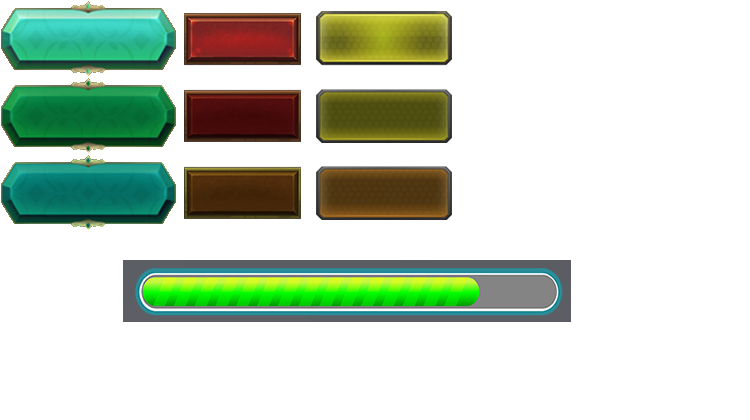
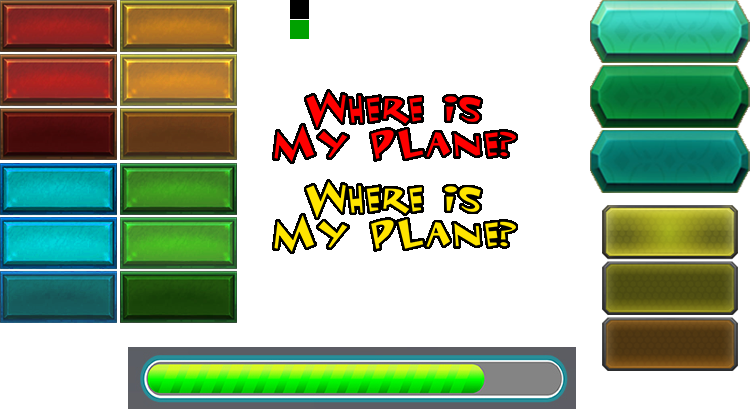
buttons

diff --git a/platformer/Motor2D/j1Map.cpp b/platformer/Motor2D/j1Map.cpp
@@ -584,16 +584,16 @@ bool j1Map::CreateUI(map_layer* layer)
 			switch (layer->data[i])
 			{
 			case 1://start button
-				App->gui->GUIAdd_button(point.x, point.y, {1,1,width,height},App->gui,"NEW GAME",button_type::NEW_GAME);
+				App->gui->GUIAdd_button(point.x, point.y, { 120, 163, 117, 52 },App->gui,"NEW GAME",button_type::NEW_GAME);//{1,1,width,height}
 				break;
 			case 2://settings button
-				App->gui->GUIAdd_button(point.x, point.y, { 144,1,width,height }, App->gui, " SETTINGS", button_type::SETTINGS);
+				App->gui->GUIAdd_button(point.x, point.y, { 0, 163, 117, 52 }, App->gui, " SETTINGS", button_type::SETTINGS);//{ 144,1,width,height }
 				break;
 			case 3://quit button
-				App->gui->GUIAdd_button(point.x, point.y, {1,73,width,height}, App->gui,"QUIT",button_type::QUIT);
+				App->gui->GUIAdd_button(point.x, point.y, { 0, 0, 117, 52 }, App->gui,"QUIT",button_type::QUIT);//{ 1, 73, width, height }
 				break;
-			case 4:
-				App->gui->GUIAdd_button(point.x, point.y, {144,73,width,height}, App->gui,"LOAD GAME",button_type::LOAD_GAME);
+			case 4://Load button
+				App->gui->GUIAdd_button(point.x, point.y, { 120, 0, 117, 52 }, App->gui,"LOAD GAME",button_type::LOAD_GAME);//{ 144, 73, width, height}
 				break;
 			default:
 				break;

diff --git a/platformer/Motor2D/j1Scene.cpp b/platformer/Motor2D/j1Scene.cpp
@@ -176,8 +176,8 @@ bool j1Scene::UIinteraction(UIelement* element)
 
 bool j1Scene::Pause()
 {
-	Continue = (UIButton*)App->gui->GUIAdd_button(200, 100, {1,143,143,71},this,"CONTINUE",CONTINUE);
-	Exit = (UIButton*)App->gui->GUIAdd_button(200, 200, {144,143,143,71},this,"EXIT", EXIT);
+	Continue = (UIButton*)App->gui->GUIAdd_button(200, 100, { 120, 163, 117, 52 },this,"CONTINUE",CONTINUE);//{1,143,143,71}
+	Exit = (UIButton*)App->gui->GUIAdd_button(200, 200, { 0, 0, 117, 52 },this,"EXIT", EXIT);//{144,143,143,71}
 	return true;
 }
 bool j1Scene::Resume()
